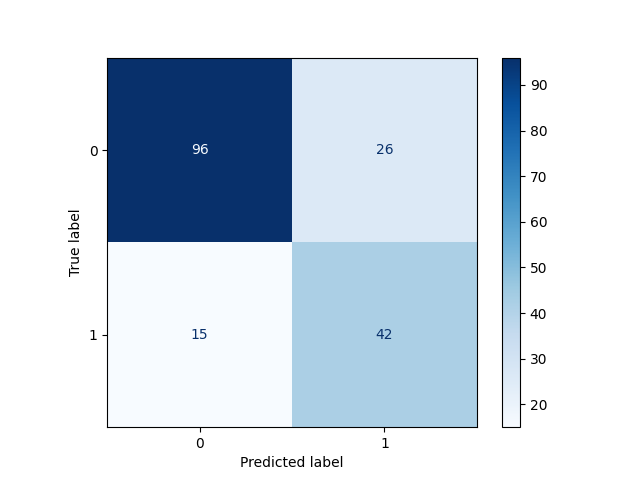
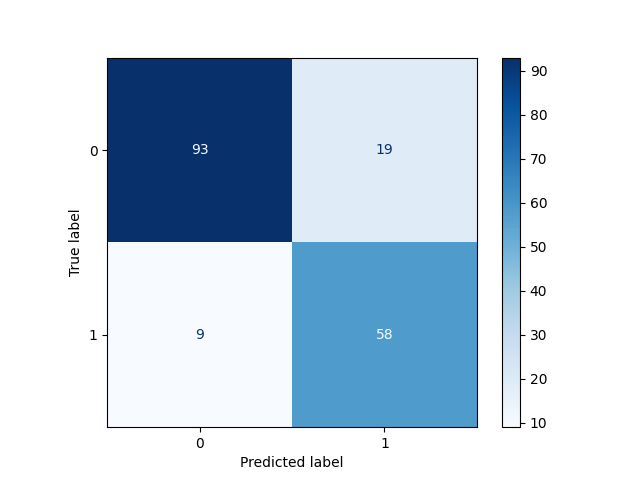
rnd clf

diff --git a/main.py b/main.py
@@ -2,12 +2,13 @@ import numpy as np
 import pandas as pd
 from sklearn.linear_model import LinearRegression
 from sklearn.tree import DecisionTreeRegressor
-from sklearn.ensemble import RandomForestRegressor
+from sklearn.ensemble import RandomForestClassifier
 from sklearn.decomposition import PCA
 from sklearn.model_selection import train_test_split
 from sklearn.metrics import accuracy_score, plot_confusion_matrix, plot_precision_recall_curve, precision_recall_curve
 from sklearn.tree import DecisionTreeClassifier
 import matplotlib.pyplot as plt
+
 
 train= pd.read_csv('data/train.csv')
 train.drop(['PassengerId', 'Name', 'Cabin'],axis= 1, inplace=True)
@@ -28,19 +29,19 @@ for col in obj_col:
 
 x_train, x_test, y_train, y_test= train_test_split(x,y, test_size=0.2)
 
-
+rnd_clf= RandomForestClassifier()
 dt_reg= DecisionTreeClassifier()
-dt_reg.fit(x_train, y_train)
+rnd_clf.fit(x_train, y_train)
 
-y_pred= dt_reg.predict(x_test)
+y_pred= rnd_clf.predict(x_test)
 acc_score= accuracy_score(y_pred, y_test)
 
 with open('results.txt', 'w') as outfile:
-    outfile.write('Accuracy: '+ str(acc_score)+ '\n')
+    outfile.write('Accuracy Score is: '+ str(acc_score)+ '\n')
 
-plot_confusion_matrix(dt_reg, x_test, y_test, cmap= plt.cm.Blues)
+plot_confusion_matrix(rnd_clf, x_test, y_test, cmap= plt.cm.Blues)
 plt.savefig('conf_matrix.png')
-plot_precision_recall_curve(dt_reg, x_test, y_test)
+plot_precision_recall_curve(rnd_clf, x_test, y_test)
 plt.savefig('pr_curve.png')
 
 
